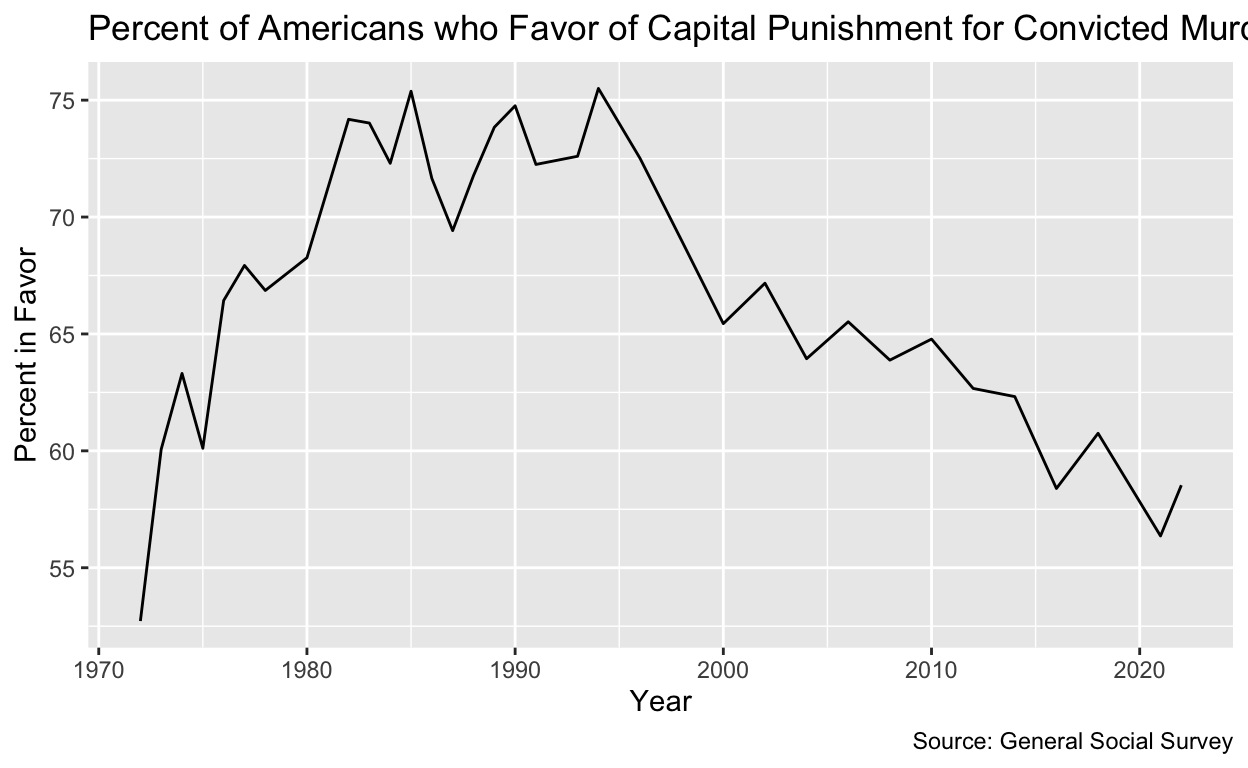
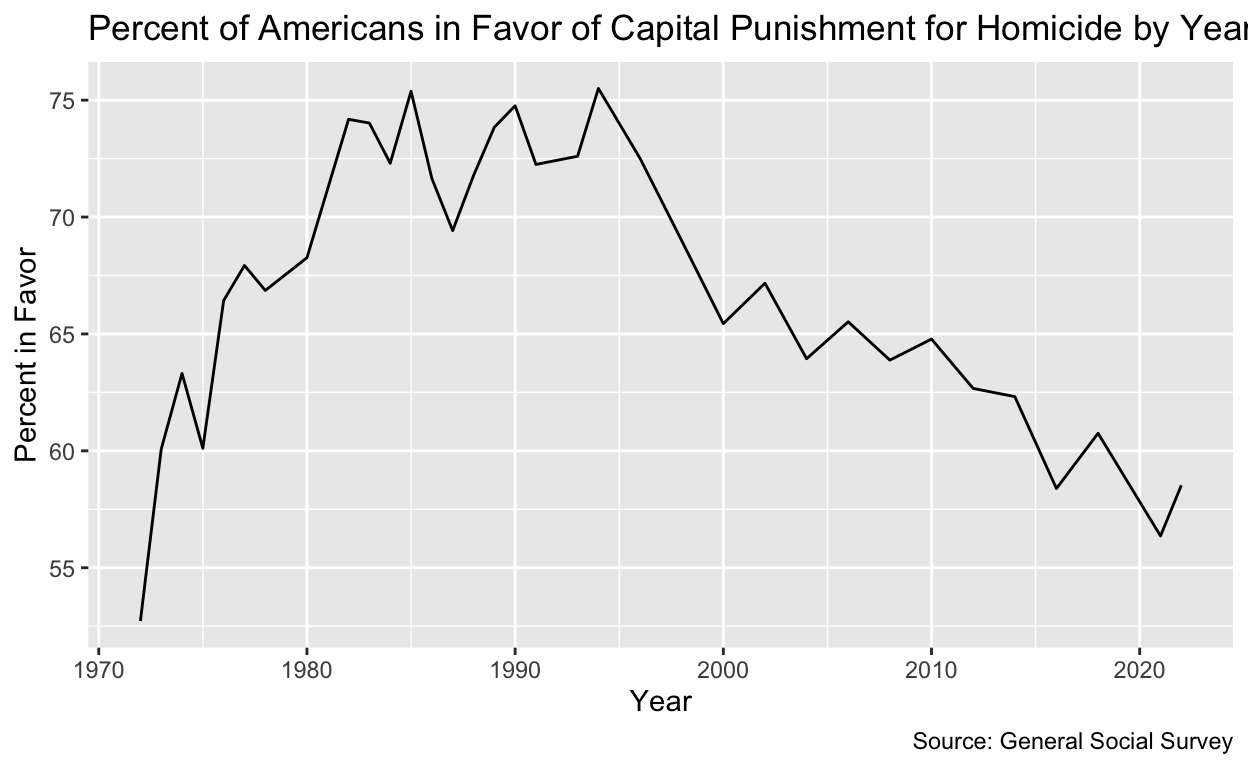
.......

Changed region(s): [[0.3438, 0.0, 1.0, 0.0625]]

diff --git a/index.html b/index.html
@@ -1539,7 +1539,7 @@ code span.wa { color: #5e5e5e; font-style: italic; } /* Warning */
 <span>  <span class='fu'><a href='https://ggplot2.tidyverse.org/reference/labs.html'>labs</a></span><span class='op'>(</span>x <span class='op'>=</span> <span class='st'>"Year"</span>, y <span class='op'>=</span> <span class='st'>"Number of Executions"</span>, title <span class='op'>=</span> <span class='st'>"Number of Executions in the United States per Year"</span>, caption <span class='op'>=</span> <span class='st'>"Sources: US Department of Justice &amp; Amnesty International"</span><span class='op'>)</span></span>
 <span></span>
 <span><span class='va'>cappun_plot_2</span> <span class='op'>&lt;-</span> <span class='fu'><a href='https://ggplot2.tidyverse.org/reference/ggplot.html'>ggplot</a></span><span class='op'>(</span>data <span class='op'>=</span> <span class='va'>cappun</span>, mapping <span class='op'>=</span> <span class='fu'><a href='https://ggplot2.tidyverse.org/reference/aes.html'>aes</a></span><span class='op'>(</span>x <span class='op'>=</span> <span class='va'>Year</span>, y <span class='op'>=</span> <span class='va'>Percent_Support</span><span class='op'>)</span><span class='op'>)</span> <span class='op'>+</span> <span class='fu'><a href='https://ggplot2.tidyverse.org/reference/geom_path.html'>geom_line</a></span><span class='op'>(</span><span class='op'>)</span> <span class='op'>+</span></span>
-<span>  <span class='fu'><a href='https://ggplot2.tidyverse.org/reference/labs.html'>labs</a></span><span class='op'>(</span>x <span class='op'>=</span> <span class='st'>"Year"</span>, y <span class='op'>=</span> <span class='st'>"Percent in Favor"</span>, title <span class='op'>=</span> <span class='st'>"Percent of Americans who Favor of Capital Punishment for Convicted Murderers by Year"</span>, caption <span class='op'>=</span> <span class='st'>"Source: General Social Survey"</span><span class='op'>)</span></span>
+<span>  <span class='fu'><a href='https://ggplot2.tidyverse.org/reference/labs.html'>labs</a></span><span class='op'>(</span>x <span class='op'>=</span> <span class='st'>"Year"</span>, y <span class='op'>=</span> <span class='st'>"Percent in Favor"</span>, title <span class='op'>=</span> <span class='st'>"Percent of Americans in Favor of Capital Punishment for Homicide by Year"</span>, caption <span class='op'>=</span> <span class='st'>"Source: General Social Survey"</span><span class='op'>)</span></span>
 <span></span>
 <span><span class='va'>cappun_plot_3</span> <span class='op'>&lt;-</span> <span class='fu'><a href='https://ggplot2.tidyverse.org/reference/ggplot.html'>ggplot</a></span><span class='op'>(</span>data <span class='op'>=</span> <span class='va'>cappun</span>,</span>
 <span>mapping <span class='op'>=</span> <span class='fu'><a href='https://ggplot2.tidyverse.org/reference/aes.html'>aes</a></span><span class='op'>(</span>x <span class='op'>=</span> <span class='va'>Year</span>, y <span class='op'>=</span> <span class='va'>Number_Executions</span><span class='op'>)</span><span class='op'>)</span> <span class='op'>+</span></span>
@@ -1551,7 +1551,7 @@ code span.wa { color: #5e5e5e; font-style: italic; } /* Warning */
 <span>mapping <span class='op'>=</span> <span class='fu'><a href='https://ggplot2.tidyverse.org/reference/aes.html'>aes</a></span><span class='op'>(</span>x <span class='op'>=</span> <span class='va'>Year</span>, y <span class='op'>=</span> <span class='va'>Percent_Support</span><span class='op'>)</span><span class='op'>)</span> <span class='op'>+</span></span>
 <span><span class='fu'><a href='https://ggplot2.tidyverse.org/reference/geom_point.html'>geom_point</a></span><span class='op'>(</span><span class='op'>)</span> <span class='op'>+</span></span>
 <span><span class='fu'><a href='https://ggplot2.tidyverse.org/reference/geom_smooth.html'>geom_smooth</a></span><span class='op'>(</span>color <span class='op'>=</span> <span class='st'>"black"</span><span class='op'>)</span> <span class='op'>+</span></span>
-<span>    <span class='fu'><a href='https://ggplot2.tidyverse.org/reference/labs.html'>labs</a></span><span class='op'>(</span>x <span class='op'>=</span> <span class='st'>"Year"</span>, y <span class='op'>=</span> <span class='st'>"Percent in Favor"</span>, title <span class='op'>=</span> <span class='st'>"Percent of Americans who Favor Capital Punishment for Convicted Murderers by Year"</span>, caption <span class='op'>=</span> <span class='st'>"Source: General Social Survey"</span><span class='op'>)</span></span>
+<span>    <span class='fu'><a href='https://ggplot2.tidyverse.org/reference/labs.html'>labs</a></span><span class='op'>(</span>x <span class='op'>=</span> <span class='st'>"Year"</span>, y <span class='op'>=</span> <span class='st'>"Percent in Favor"</span>, title <span class='op'>=</span> <span class='st'>"Percent of Americans in Favor of Capital Punishment for Homicide by Year"</span>, caption <span class='op'>=</span> <span class='st'>"Source: General Social Survey"</span><span class='op'>)</span></span>
 <span>  </span>
 <span></span>
 <span><span class='va'>cappun_plot_1</span></span></code></pre>
